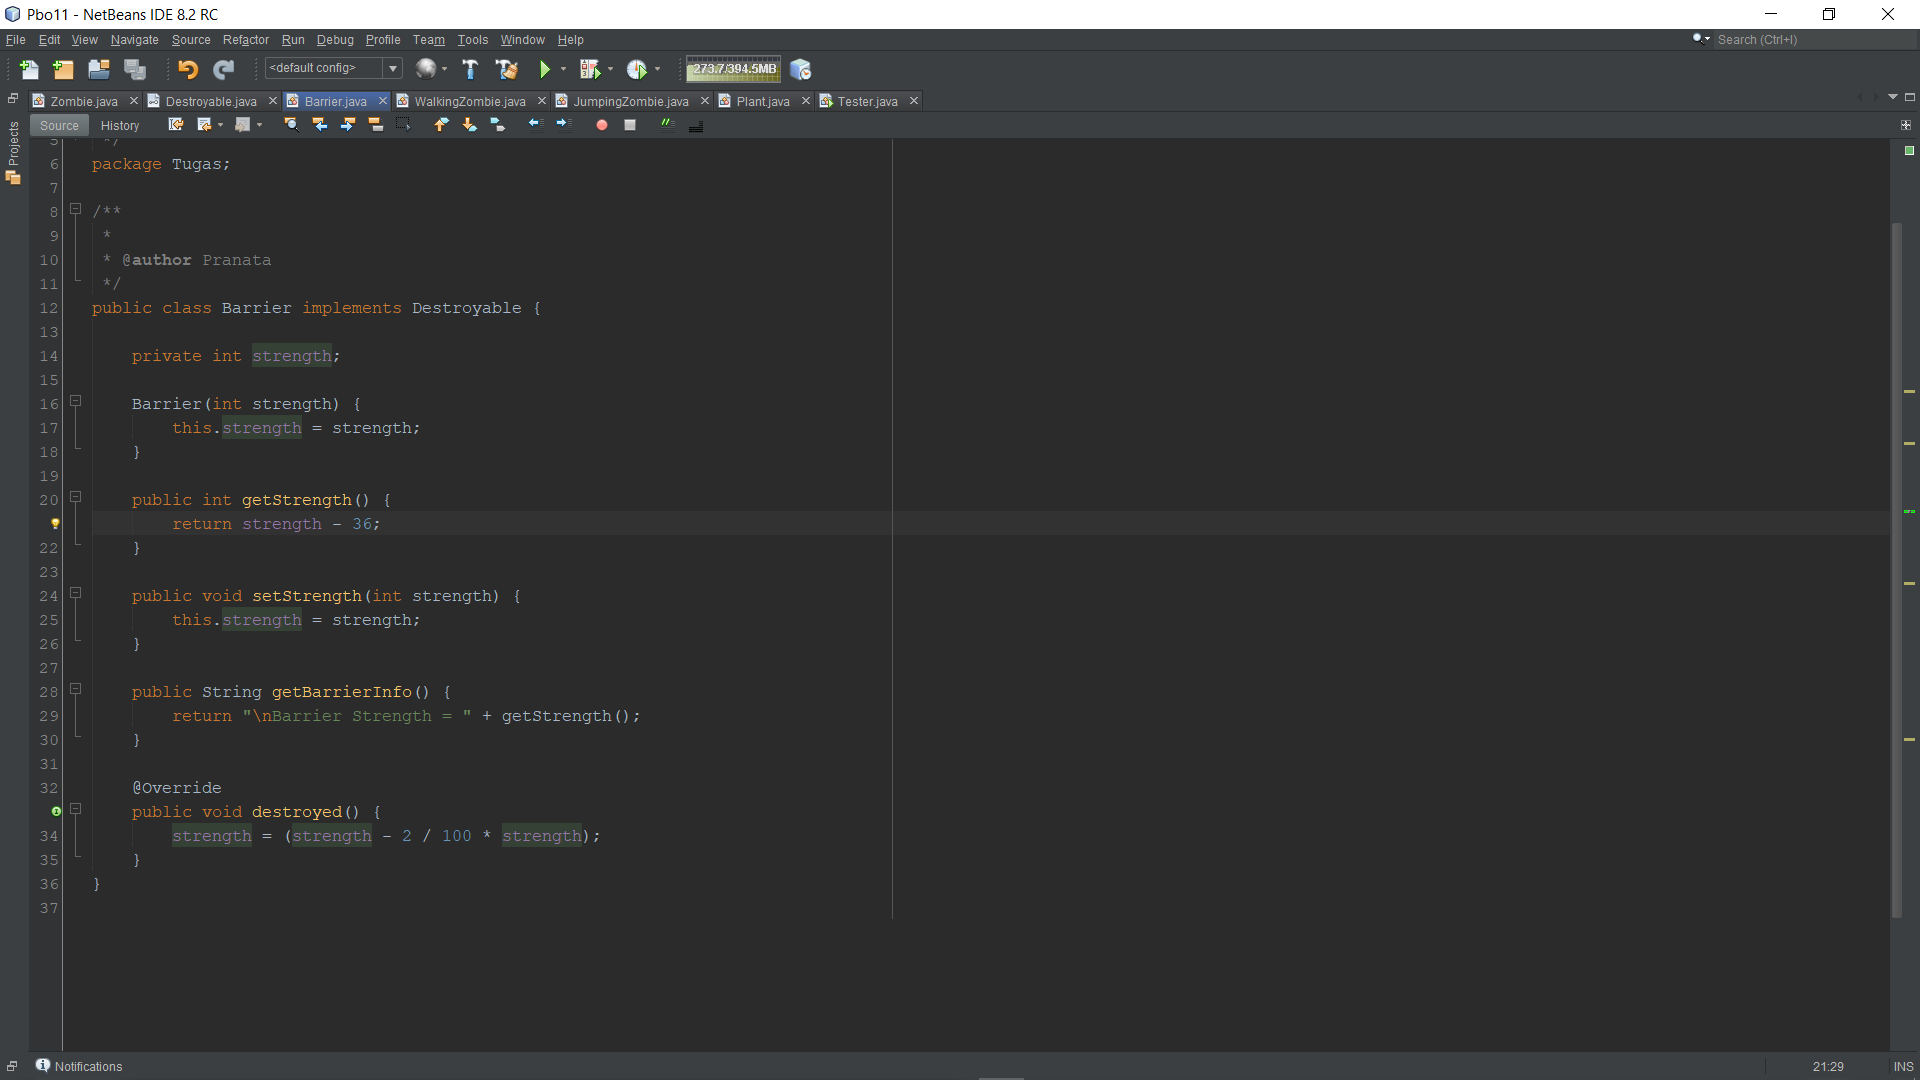
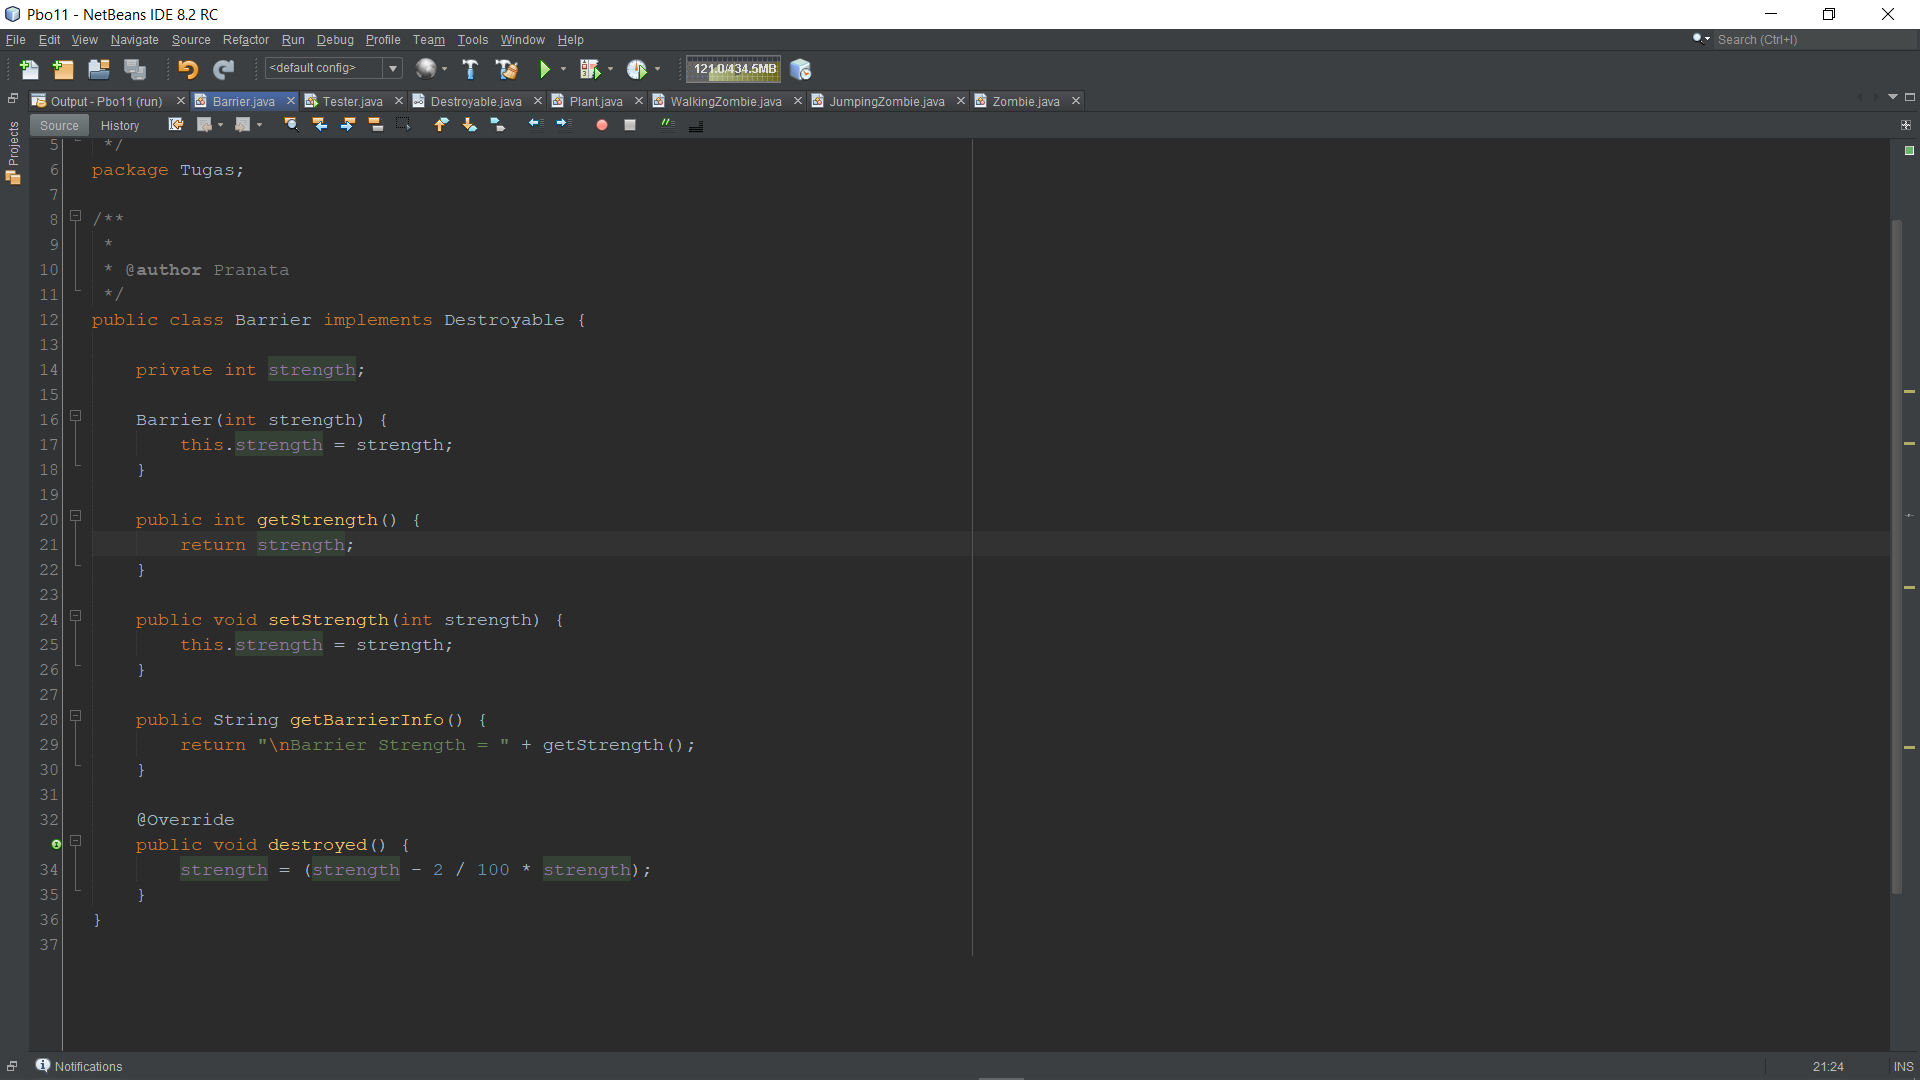
Pertemuan 11 Update Laporan_Praktikum_11

diff --git a/Pertemuan 11/Pbo11/src/Tugas/Plant.java b/Pertemuan 11/Pbo11/src/Tugas/Plant.java
@@ -20,6 +20,7 @@ public class Plant {
             jz.destroyed();
         } else if (d instanceof Barrier) {
             Barrier b = (Barrier) d;
+            b.setStrength(64);
             b.getBarrierInfo();
             
         }

diff --git a/Pertemuan 11/Pbo11/src/Tugas/Barrier.java b/Pertemuan 11/Pbo11/src/Tugas/Barrier.java
@@ -18,7 +18,7 @@ public class Barrier implements Destroyable {
     }
 
     public int getStrength() {
-        return strength - 36;
+        return strength;
     }
 
     public void setStrength(int strength) {
